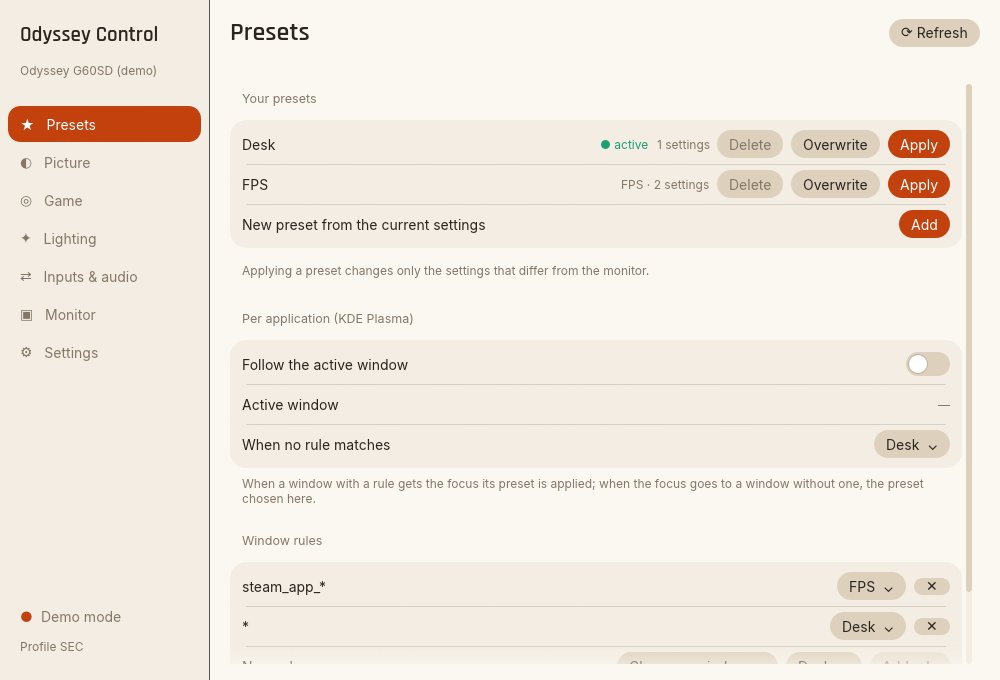
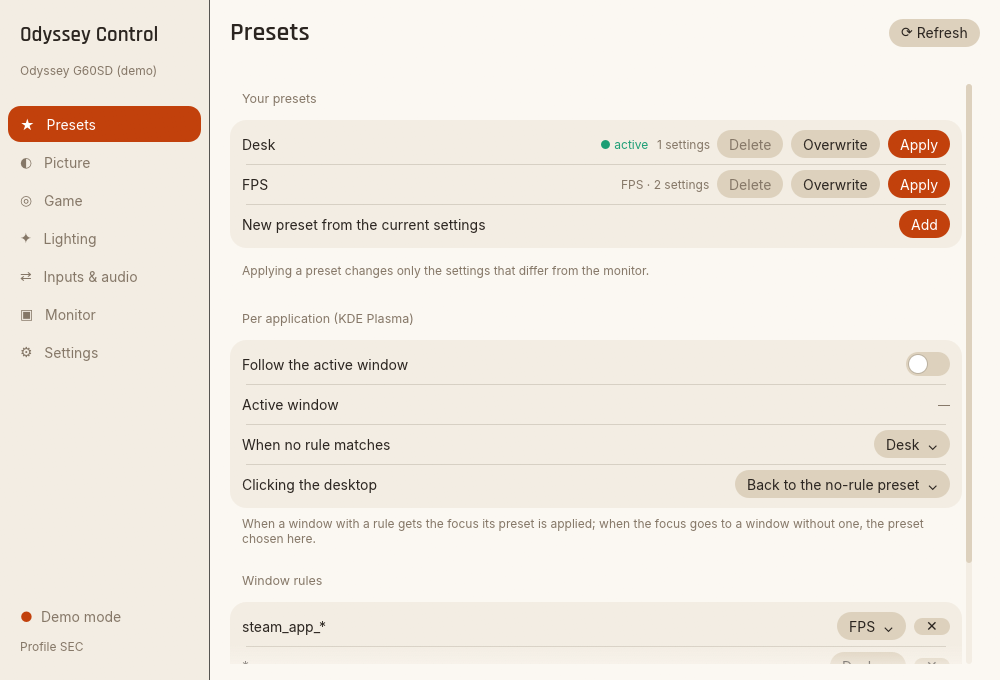
Per-app rules: desktop click behaviour, nested titles in the window picker
The KWin script reports the desktop with an empty class; a new setting
chooses whether that applies the no-rule preset (default) or keeps the last
rule. Picker entries show the class with its window title nested under it.

diff --git a/packaging/kwin/odyssey-ctl/contents/code/main.js b/packaging/kwin/odyssey-ctl/contents/code/main.js
@@ -30,6 +30,11 @@ function reportAll() {
 
 function report(window) {
     reportAll();
+    if (window && window.desktopWindow) {
+        // Clicking the desktop: no application has the focus.
+        callDBus(SERVICE, PATH, SERVICE, "WindowActivated", "", "");
+        return;
+    }
     if (!isApplication(window)) {
         return;
     }

diff --git a/src/gui/app.rs b/src/gui/app.rs
@@ -989,8 +989,21 @@ impl App {
                     {
                         continue;
                     }
-                    let text = format!("{class}\n{}", title.chars().take(48).collect::<String>());
-                    let item = egui::Button::new(RichText::new(text).color(p.text))
+                    // The class, and the title of its current window nested under it.
+                    let mut job = egui::text::LayoutJob::default();
+                    job.append(
+                        class,
+                        0.0,
+                        egui::TextFormat::simple(egui::FontId::proportional(14.0), p.text),
+                    );
+                    if !title.is_empty() {
+                        job.append(
+                            &format!("\n└ {}", title.chars().take(48).collect::<String>()),
+                            0.0,
+                            egui::TextFormat::simple(egui::FontId::proportional(12.0), p.text_dim),
+                        );
+                    }
+                    let item = egui::Button::new(job)
                         .fill(Color32::TRANSPARENT)
                         .corner_radius(egui::CornerRadius::same(12))
                         .min_size(egui::vec2(ui.available_width(), 32.0));
@@ -1073,6 +1086,19 @@ impl App {
                     .map_or(usize::MAX, |(j, _)| *j);
                 if let Some(j) = theme::choice(ui, "app-default", current, &options) {
                     set_default = Some(j);
+                }
+            });
+            let label = self.t("row.desktop");
+            theme::row(ui, &label, |ui| {
+                let options = [
+                    (true, self.t("desktop.default")),
+                    (false, self.t("desktop.keep")),
+                ];
+                if let Some(v) =
+                    theme::choice(ui, "desktop-resets", self.settings.desktop_resets, &options)
+                {
+                    self.settings.desktop_resets = v;
+                    self.save_settings();
                 }
             });
         });

diff --git a/src/gui/main.rs b/src/gui/main.rs
@@ -132,15 +132,27 @@ fn main() -> eframe::Result {
                         if class == desktop::OWN_WINDOW_CLASS {
                             continue;
                         }
-                        if let Ok(mut last) = shell.last_window.lock() {
-                            *last = Some((class.clone(), title.clone()));
-                        }
-                        if let Some(ctx) = &ctx {
-                            ctx.request_repaint();
-                        }
                         let settings = Settings::load();
                         let presets = preset_logic::Presets::load();
-                        match presets.preset_for_window(&class, &title) {
+                        // An empty class is the desktop: no application has the focus.
+                        let desktop = class.is_empty();
+                        if !desktop {
+                            if let Ok(mut last) = shell.last_window.lock() {
+                                *last = Some((class.clone(), title.clone()));
+                            }
+                            if let Some(ctx) = &ctx {
+                                ctx.request_repaint();
+                            }
+                        }
+                        let target = if desktop {
+                            settings
+                                .desktop_resets
+                                .then_some(presets.app_default.as_deref())
+                                .flatten()
+                        } else {
+                            presets.preset_for_window(&class, &title)
+                        };
+                        match target {
                             Some(name)
                                 if settings.per_app && window_preset.as_deref() != Some(name) =>
                             {

diff --git a/src/gui/settings.rs b/src/gui/settings.rs
@@ -49,6 +49,8 @@ pub struct Settings {
     pub autostart: bool,
     /// Apply presets from the per-application rules when the focused window changes (KDE).
     pub per_app: bool,
+    /// Clicking the desktop applies the no-rule preset (false: the last rule stays).
+    pub desktop_resets: bool,
 }
 
 impl Default for Settings {
@@ -61,6 +63,7 @@ impl Default for Settings {
             start_hidden: false,
             autostart: false,
             per_app: false,
+            desktop_resets: true,
         }
     }
 }
@@ -92,7 +95,7 @@ mod tests {
         assert_eq!(toml::from_str::<Settings>(&text).unwrap(), s);
         let partial: Settings = toml::from_str("language = \"en\"").unwrap();
         assert!(!partial.allow_unverified && partial.close_to_tray && !partial.autostart);
-        assert!(!partial.per_app);
+        assert!(!partial.per_app && partial.desktop_resets);
         assert_eq!(partial.theme, ThemeChoice::System);
     }
 }

diff --git a/src/gui/i18n.rs b/src/gui/i18n.rs
@@ -128,6 +128,21 @@ const STRINGS: &[(&str, &str, &str)] = &[
     ),
     ("apps.keep", "Leave as it is", "Lascia com'è"),
     (
+        "row.desktop",
+        "Clicking the desktop",
+        "Cliccando sul desktop",
+    ),
+    (
+        "desktop.default",
+        "Back to the no-rule preset",
+        "Torna al preset senza regola",
+    ),
+    (
+        "desktop.keep",
+        "Keep the last rule",
+        "Mantieni l'ultima regola",
+    ),
+    (
         "preset_saved",
         "Preset “{name}” saved.",
         "Preset “{name}” salvato.",

diff --git a/CHANGELOG.md b/CHANGELOG.md
@@ -10,7 +10,8 @@ All notable changes to this project are documented here. The format follows
 - Per-application presets on KDE Plasma 6: Presets → Per application installs a KWin script
   that reports the focused window to the app over D-Bus; rules match the window class (and
   optionally the title) with `*`/`?` wildcards, and a fallback preset is applied when a window
-  without a rule gets the focus. Stored in `presets.toml` as `[[app]]` and `app_default`.
+  without a rule gets the focus (and, by choice, when the desktop is clicked). Stored in
+  `presets.toml` as `[[app]]` and `app_default`.
 - Presets page: "Add" creates a preset from the current settings and lets you type its name in
   place; names can be renamed in place (rules follow the new name).
 - `odyssey-ctl preset list|save|apply`: the presets of `presets.toml` from the command line, the
